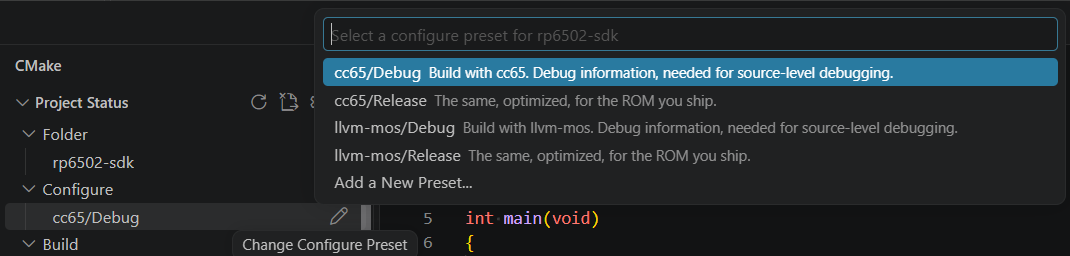
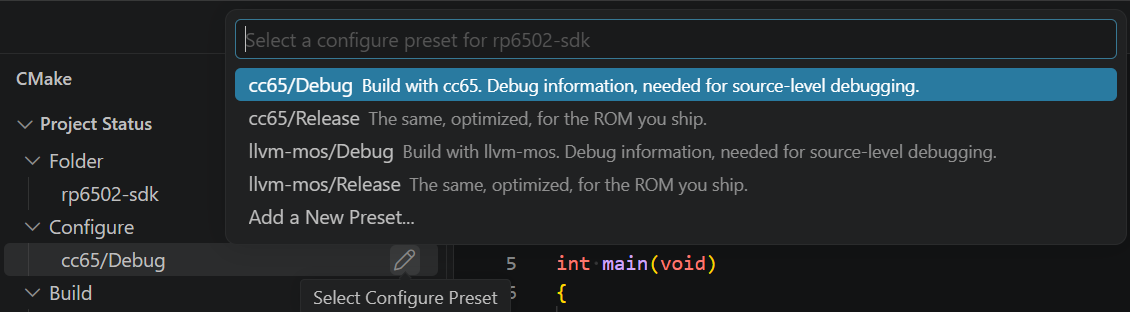
sdk images

diff --git a/docs/source/sdk.rst b/docs/source/sdk.rst
@@ -85,17 +85,17 @@ Code's Debug Console. The session stays open after the program ends so
 the screen can be read. Stop it with Shift+F5. The emulator window may
 open behind VS Code.
 
-.. image:: _static/sdk/first-run-light.*
+.. image:: _static/sdk/first-run-light.png
    :class: only-light
    :width: 700
-   :alt: VS Code with Hello, world! in the Debug Console, beside the
-         emulator window showing the same text.
+   :alt: The emulator window showing Hello, world!, in front of VS Code
+         with its debug toolbar.
 
-.. image:: _static/sdk/first-run-dark.*
+.. image:: _static/sdk/first-run-dark.png
    :class: only-dark
    :width: 700
-   :alt: VS Code with Hello, world! in the Debug Console, beside the
-         emulator window showing the same text.
+   :alt: The emulator window showing Hello, world!, in front of VS Code
+         with its debug toolbar.
 
 The project now looks like this:
 
@@ -151,13 +151,13 @@ Running and Debugging
 "Start Debugging" (F5) runs one of two launch configurations. Choose
 which in the Run and Debug side panel.
 
-.. image:: _static/sdk/configs-light.*
+.. image:: _static/sdk/configs-light.png
    :class: only-light
    :width: 400
    :alt: The Run and Debug configuration list with RP6502 (Emulator) and
          RP6502 (Hardware).
 
-.. image:: _static/sdk/configs-dark.*
+.. image:: _static/sdk/configs-dark.png
    :class: only-dark
    :width: 400
    :alt: The Run and Debug configuration list with RP6502 (Emulator) and
@@ -171,13 +171,13 @@ arrays expand. With cc65, variables have no types, and each variable's
 size comes from where its symbol sits in memory.
 :ref:`Debugging <emu-debugging>` in the emulator's datasheet covers both.
 
-.. image:: _static/sdk/breakpoint-light.*
+.. image:: _static/sdk/breakpoint-light.png
    :class: only-light
    :width: 700
    :alt: VS Code stopped at a breakpoint in main.c, with the Variables and
          Call Stack panels.
 
-.. image:: _static/sdk/breakpoint-dark.*
+.. image:: _static/sdk/breakpoint-dark.png
    :class: only-dark
    :width: 700
    :alt: VS Code stopped at a breakpoint in main.c, with the Variables and
@@ -203,13 +203,13 @@ USB drive without running it. "RP6502: console terminal" opens a
 terminal on the console. Both send a break first, which stops the running
 program.
 
-.. image:: _static/sdk/tasks-light.*
+.. image:: _static/sdk/tasks-light.png
    :class: only-light
    :width: 600
    :alt: The Run Task list filtered to RP6502: update tools, upload ROM and
          console terminal.
 
-.. image:: _static/sdk/tasks-dark.*
+.. image:: _static/sdk/tasks-dark.png
    :class: only-dark
    :width: 600
    :alt: The Run Task list filtered to RP6502: update tools, upload ROM and
@@ -813,15 +813,15 @@ CMake side panel.
   rp6502_executable(setup DATA default RESET default)
   target_sources(setup PRIVATE src/setup.c)
 
-.. image:: _static/sdk/launch-target-light.*
+.. image:: _static/sdk/launch-target-light.png
    :class: only-light
-   :width: 400
+   :width: 560
    :alt: The CMake side panel with the Launch target list open, showing
          the project's ROMs.
 
-.. image:: _static/sdk/launch-target-dark.*
+.. image:: _static/sdk/launch-target-dark.png
    :class: only-dark
-   :width: 400
+   :width: 560
    :alt: The CMake side panel with the Launch target list open, showing
          the project's ROMs.
 
